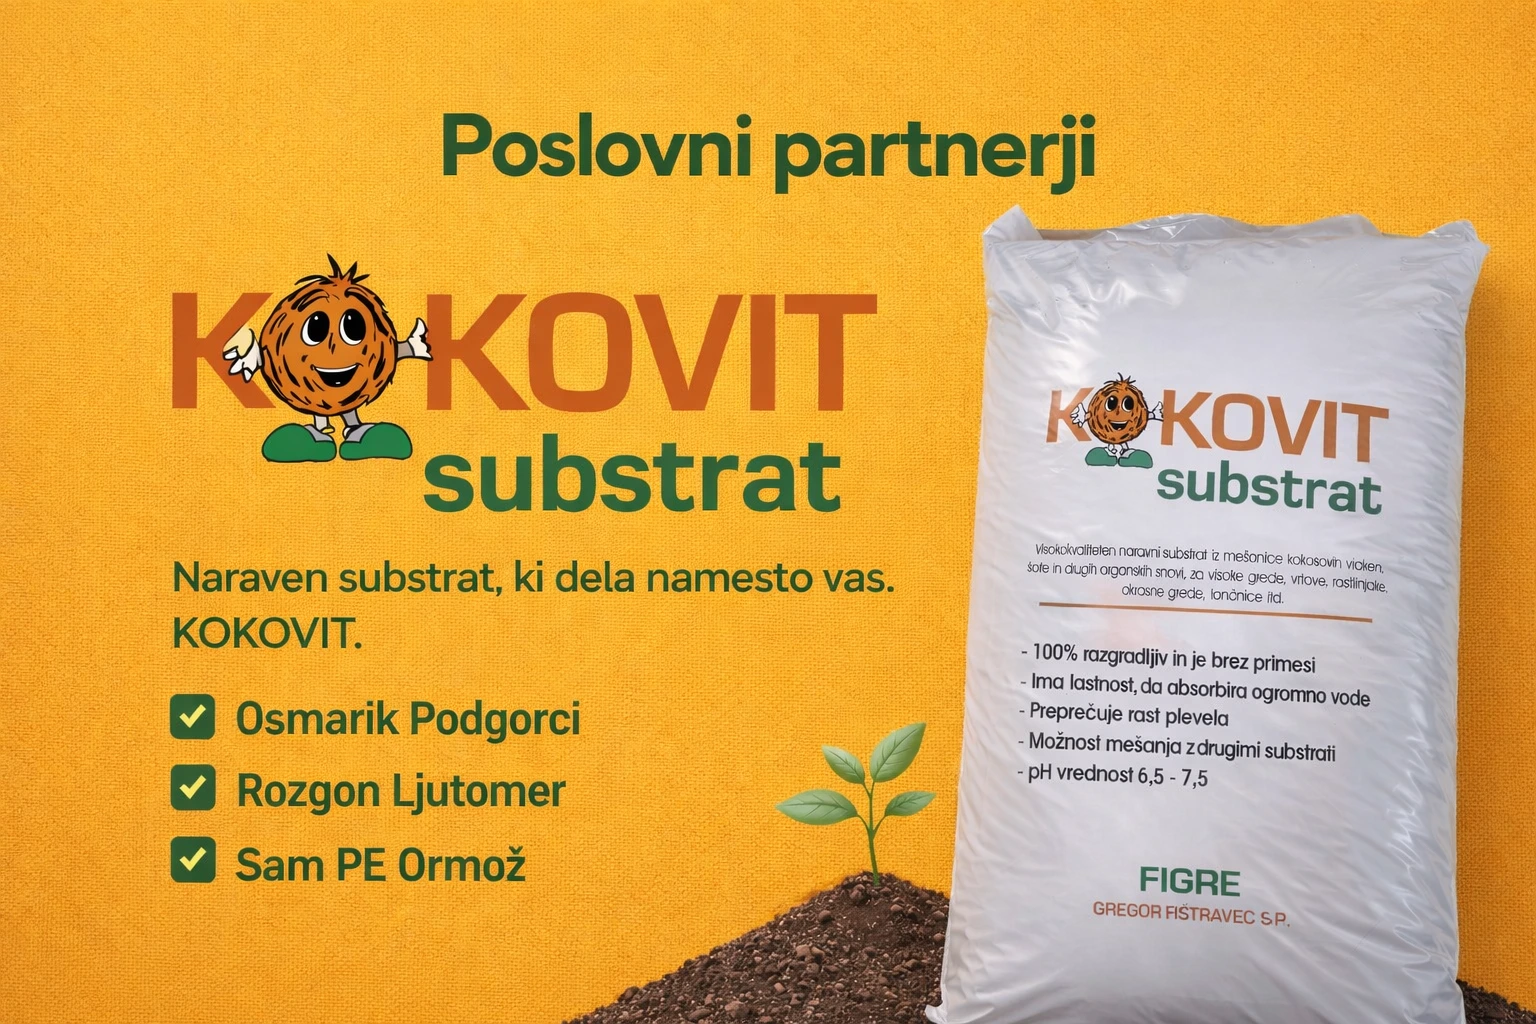
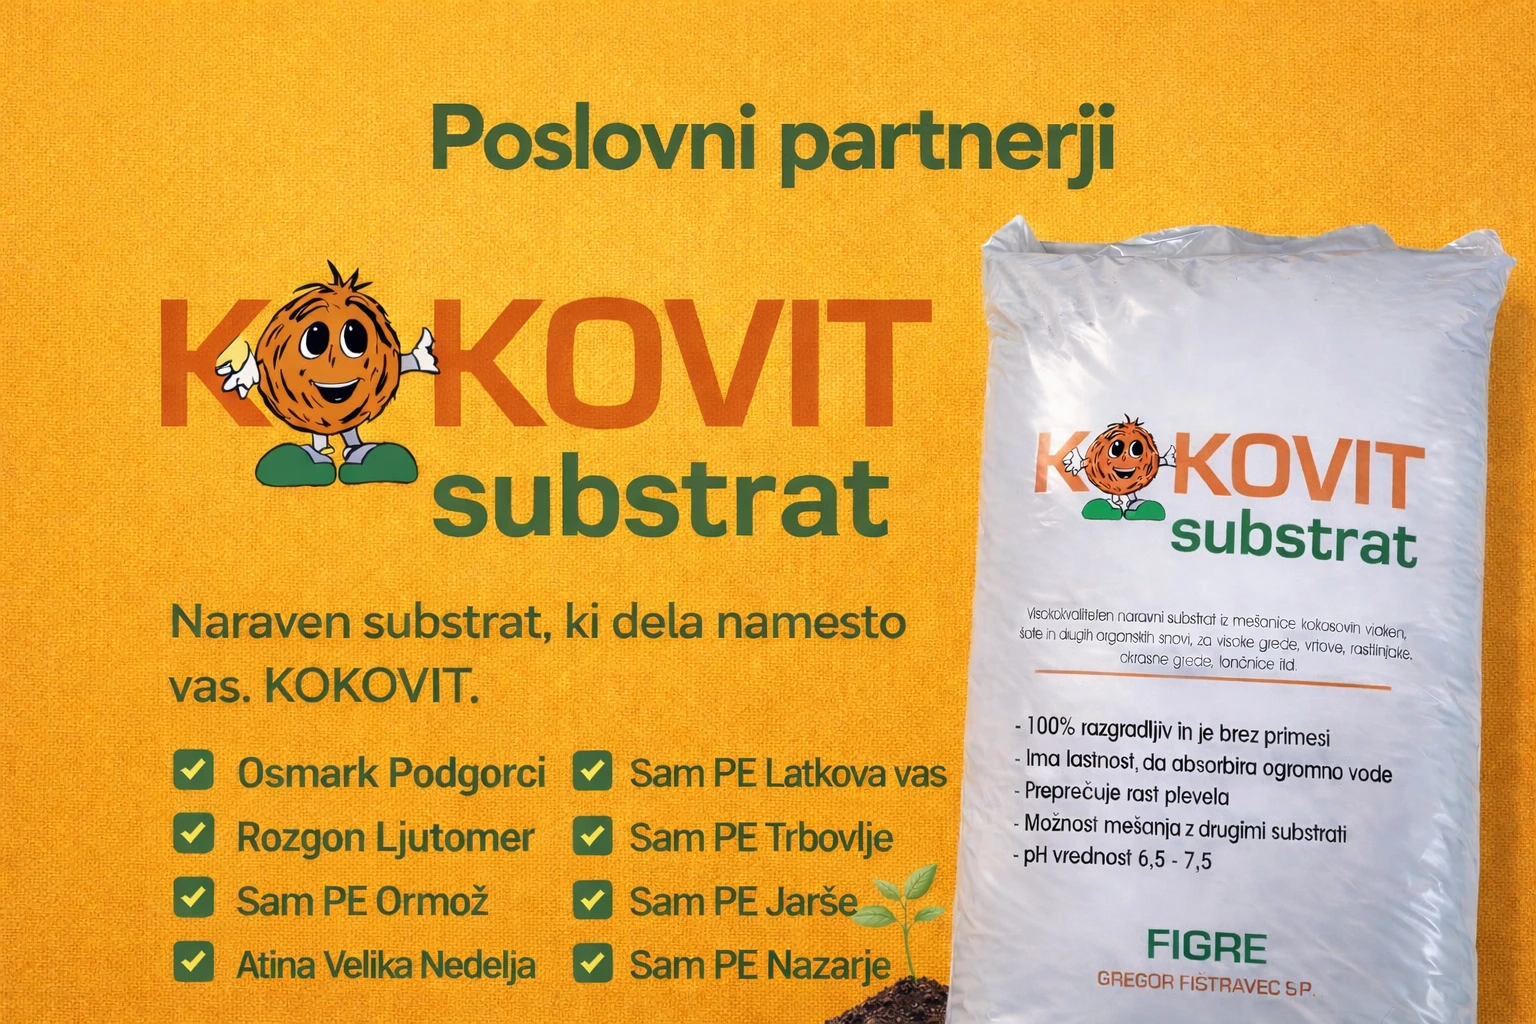
popravki

diff --git a/app/partnerji/page.tsx b/app/partnerji/page.tsx
@@ -1,6 +1,7 @@
 "use client";
 import Navbar from "../Components/Navbar";
 import Footer from "../Components/Footer";
+import Image from "next/image";
 
 export default function Partnerji () {
     return (
@@ -13,10 +14,12 @@ export default function Partnerji () {
                     </h1>
 
                     <div className="flex justify-center mb-16">
-                        <img 
+                        <Image 
                             src="/partnerji.webp" 
                             alt="Poslovni partnerji - Kokovit" 
                             className="w-full max-w-3xl rounded-2xl shadow-2xl border-4 border-[#F5F5DC]/20 hover:scale-105 transition-transform duration-300"
+                            width={1200}
+                            height={800}
                         />
                     </div>
 
@@ -52,6 +55,41 @@ export default function Partnerji () {
                                         className="underline"
                                         target="_blank"
                                     >Sam PE Ormož</a>
+                                </li>
+                                <li>
+                                    <a
+                                        href="https://www.google.com/maps/place/SAM+Nazarje/@46.3192241,14.9469139,17z/data=!3m1!4b1!4m6!3m5!1s0x47655cb03f1bff97:0xbd51795026d476ae!8m2!3d46.3192204!4d14.9494888!16s%2Fg%2F1hc0tdc9_?entry=ttu&g_ep=EgoyMDI2MDIwNC4wIKXMDSoKLDEwMDc5MjA3M0gBUAM%3D"
+                                        className="underline"
+                                        target="_blank"
+                                    >Sam PE Nazarje</a>
+                                </li>
+                                <li>
+                                    <a
+                                        href="https://www.google.com/maps/place/Sam+d.o.o.+Dom%C5%BEale/@46.1624106,14.5954094,17z/data=!3m1!4b1!4m6!3m5!1s0x476535b3b1e1dc37:0x7597fe9d2e057a1d!8m2!3d46.1624069!4d14.5979843!16s%2Fg%2F1hc26_qnb?entry=ttu&g_ep=EgoyMDI2MDIwNC4wIKXMDSoKLDEwMDc5MjA3M0gBUAM%3D"
+                                        className="underline"
+                                        target="_blank"
+                                    >Sam PE Jarše</a>
+                                </li>
+                                <li>
+                                    <a
+                                        href="https://www.google.com/maps/place/SAM+Trbovlje/@46.1404618,15.0347314,17z/data=!3m1!4b1!4m6!3m5!1s0x47656b534bd9760d:0xb8eac07a749a5dca!8m2!3d46.1404581!4d15.0373063!16s%2Fg%2F1hc1ww89x?entry=ttu&g_ep=EgoyMDI2MDIwNC4wIKXMDSoKLDEwMDc5MjA3M0gBUAM%3D"
+                                        className="underline"
+                                        target="_blank"
+                                    >Sam PE Trbovlje</a>
+                                </li>
+                                <li>
+                                    <a
+                                        href="https://www.google.com/maps/place/SAM+Latkova+vas/@46.2536193,15.0922372,17z/data=!3m1!4b1!4m6!3m5!1s0x476568d72eb0288b:0x6e1ad7d665b96b29!8m2!3d46.2536157!4d15.0971081!16s%2Fg%2F1hc30tv6q?entry=ttu&g_ep=EgoyMDI2MDIwNC4wIKXMDSoKLDEwMDc5MjA3M0gBUAM%3D"
+                                        className="underline"
+                                        target="_blank"
+                                    >Sam PE Latkova vas</a>
+                                </li>
+                                <li>
+                                    <a
+                                        href="https://www.google.com/maps/place/Atina+proizvodno+in+trgovsko+podjetje+d.o.o./@46.4177623,16.1094288,17z/data=!3m1!4b1!4m6!3m5!1s0x476f5bab9349fa57:0xeffceb6f895ffd0a!8m2!3d46.4177586!4d16.1120037!16s%2Fg%2F1jkyq48nl?entry=ttu&g_ep=EgoyMDI2MDIwNC4wIKXMDSoKLDEwMDc5MjA3M0gBUAM%3D"
+                                        className="underline"
+                                        target="_blank"
+                                    >Atina Velika Nedelja</a>
                                 </li>
                             </ul>
                         </section>

diff --git a/app/povprasevanje/page.tsx b/app/povprasevanje/page.tsx
@@ -281,10 +281,11 @@ export default function Povprasevanje() {
                     />
                      Predračun
                 </label>
-                <label className="text-[#000000] ml-2">
+                <label className={`ml-2 ${kolicina45 !== "" && kolicina45 > 0 ? "text-gray-400 cursor-not-allowed" : "text-[#000000]"}`}>
                     <input type="radio" name="placilo" value="Po povzetju" className="mr-2"
                             checked={nacinPlacila === "Po povzetju"}
                             onChange={(e) => setNacinPlacila(e.target.value)}
+                            disabled={kolicina45 !== "" && kolicina45 > 0}
                     />
                     Po povzetju
                 </label>

diff --git a/app/izdelki/70l/page.tsx b/app/izdelki/70l/page.tsx
@@ -97,6 +97,10 @@ export default function Page() {
                         </div>
 
                         <div className="mt-8 text-center">
+
+                            <p className="text-2xl font-semibold text-[#2d5016] mb-4">
+                                Dostavni rok: <span className="text-[#4CAF50]">5 - 7 delovnih dni</span> od prejema naročila
+                            </p>
                             <p className="text-xl font-semibold text-[#2d5016] mb-8">
                                 ⏩ Pohiti in si zagotovi svoj KOKOVIT substrat za SUPER VRT! 🥦🥕🍅🍆
                             </p>

diff --git a/app/izdelki/45l/page.tsx b/app/izdelki/45l/page.tsx
@@ -92,6 +92,10 @@ export default function Page() {
                         </div>
 
                         <div className="text-center">
+ 
+                            <p className="text-2xl font-semibold text-[#2d5016] mb-4">
+                                Dostavni rok: <span className="text-[#4CAF50]">3 - 5 delovnih dni</span> od prejema naročila
+                            </p>
                             <p className="text-xl font-semibold text-[#2d5016] mb-8">
                                 🌞 Poskrbite za bogat pridelek – ne zamudite priložnosti!
                             </p>
